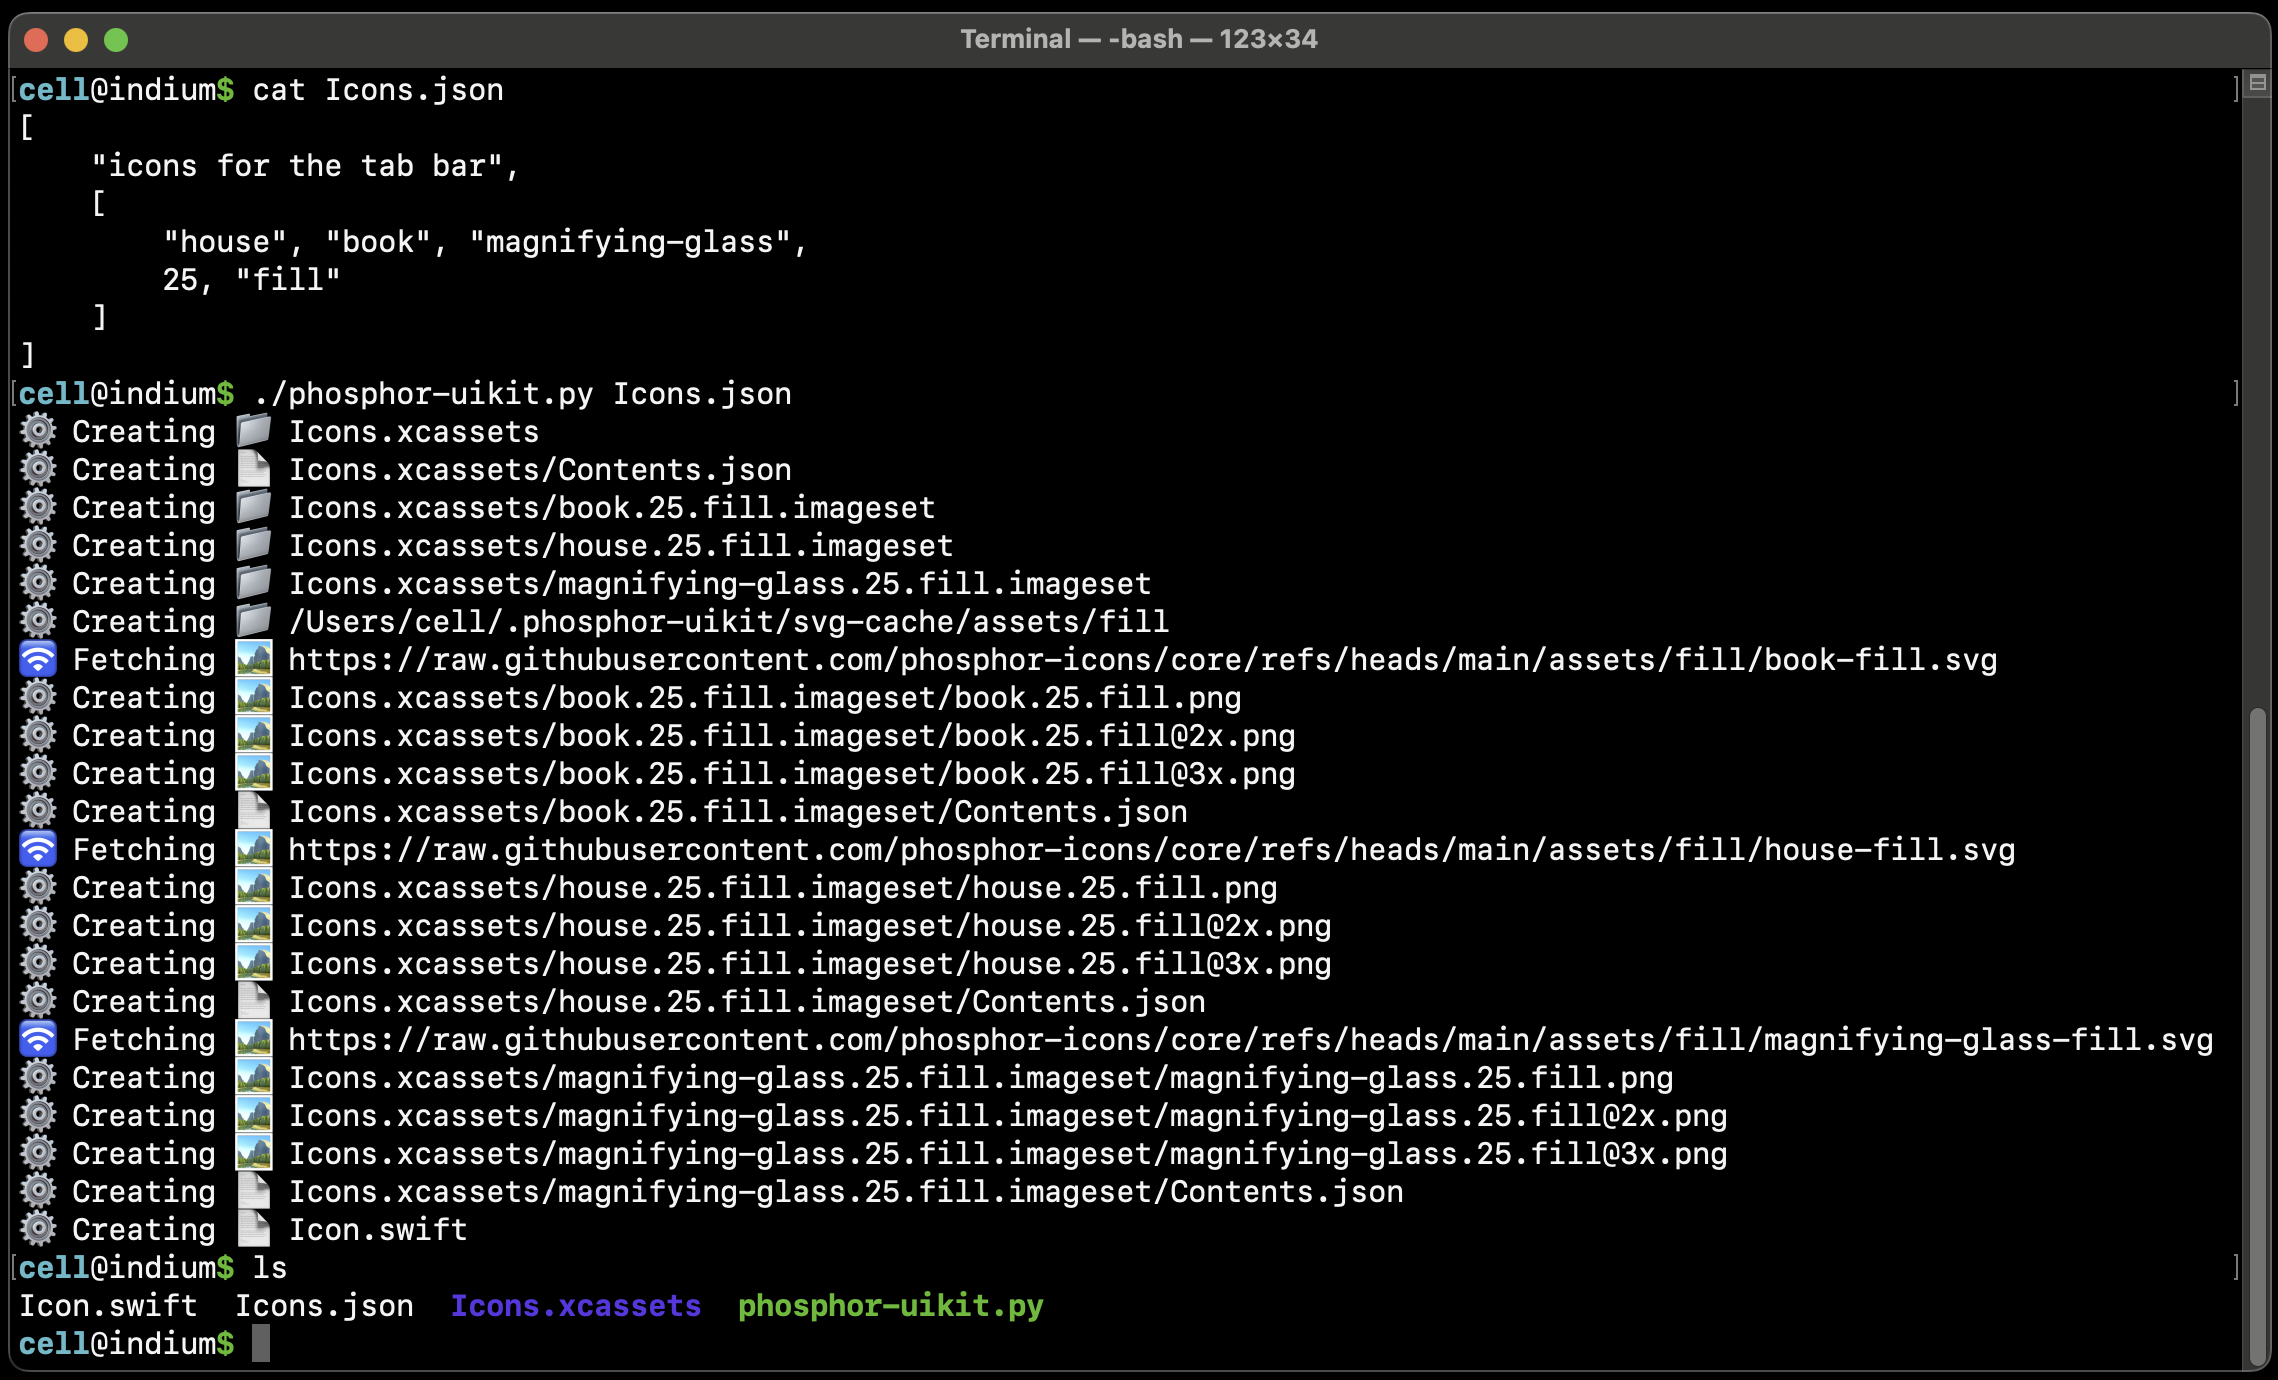
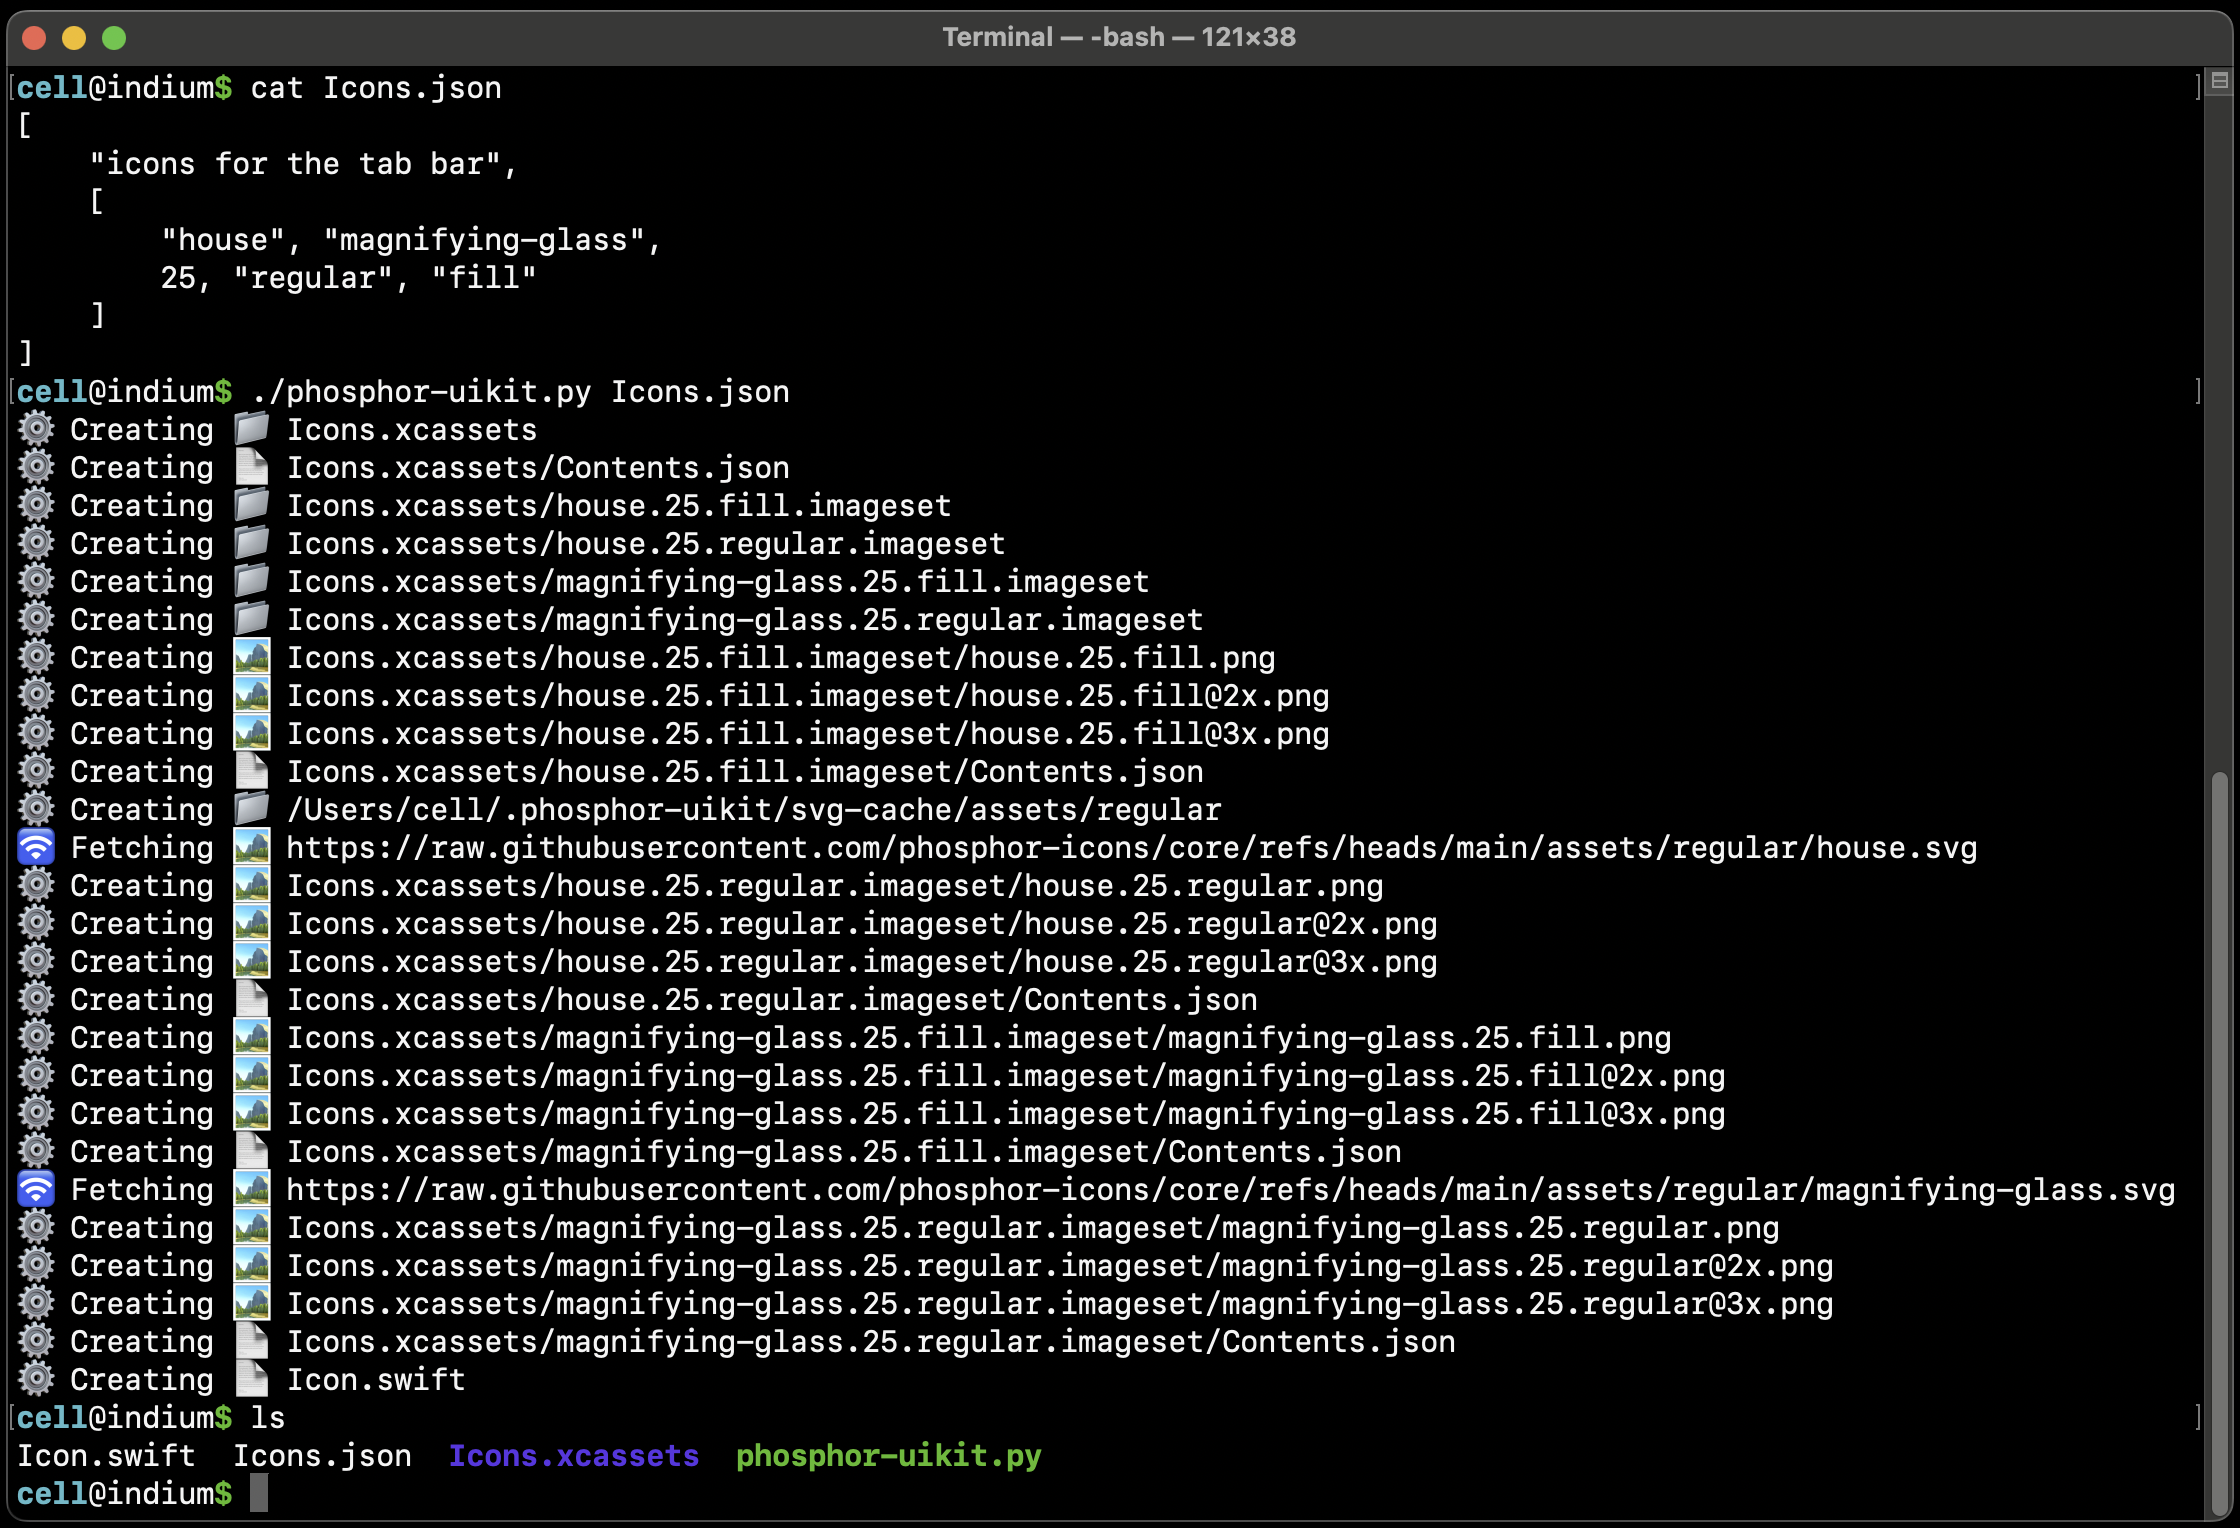
codegen tweaks

Changed region(s): [[0.0, 0.2181, 0.9688, 0.9971], [0.0, 0.0, 1.0, 0.2181], [0.9688, 0.9659, 1.0, 0.9971]]

diff --git a/phosphor-uikit.py b/phosphor-uikit.py
@@ -317,10 +317,12 @@ def make_swift_file(asset_catalog_dpath, options, icons_set):
     pname = enum_param_name(asset_catalog_dpath, options)
     code = """// Generated by phosphor-uikit.py.  Edits will be clobbered by the next run.
 
+import UIKit
+
 /// Phosphor icons.
 enum %s: String, Equatable, Hashable, CaseIterable {
 """ % tname
-    for (name, size, style) in icons_set:
+    for (name, size, style) in sorted(icons_set):
         case_name = "%s%s" % (dash_case_to_camel_cased(name), size)
         if style != "regular":
             case_name = case_name + capitalized(style)
@@ -336,11 +338,11 @@ extension %s {
 """ % tname
     code += """
 extension UIImage {
-    convenience init(%s: PNGIcon) {
+    convenience init(%s: %s) {
         self.init(named: %s.rawValue)!
     }
 }
-""" % (pname, pname)
+""" % (pname, tname, pname)
     dname = os.path.dirname(asset_catalog_dpath)
     fname = tname + ".swift"
     fpath = os.path.join(dname, fname)

diff --git a/README.md b/README.md
@@ -14,11 +14,14 @@ The above will generate `Icon.swift`:
 ```swift
 // Generated by phosphor-uikit.py.  Edits will be clobbered by the next run.
 
+import UIKit
+
 /// Phosphor icons.
 enum Icon: String, Equatable, Hashable, CaseIterable {
     case house25Fill = "house.25.fill"
+    case house25 = "house.25.regular"
     case magnifyingGlass25Fill = "magnifying-glass.25.fill"
-    case book25Fill = "book.25.fill"
+    case magnifyingGlass25 = "magnifying-glass.25.regular"
 }
 
 extension Icon {
@@ -28,11 +31,18 @@ extension Icon {
 }
 
 extension UIImage {
-    convenience init(icon: PNGIcon) {
+    convenience init(icon: Icon) {
         self.init(named: icon.rawValue)!
     }
 }
 ```
+
+The above would be used like so:
+
+```swift
+    let image = UIImage(icon: .house25)
+```
+
 
 ## Installation
 
